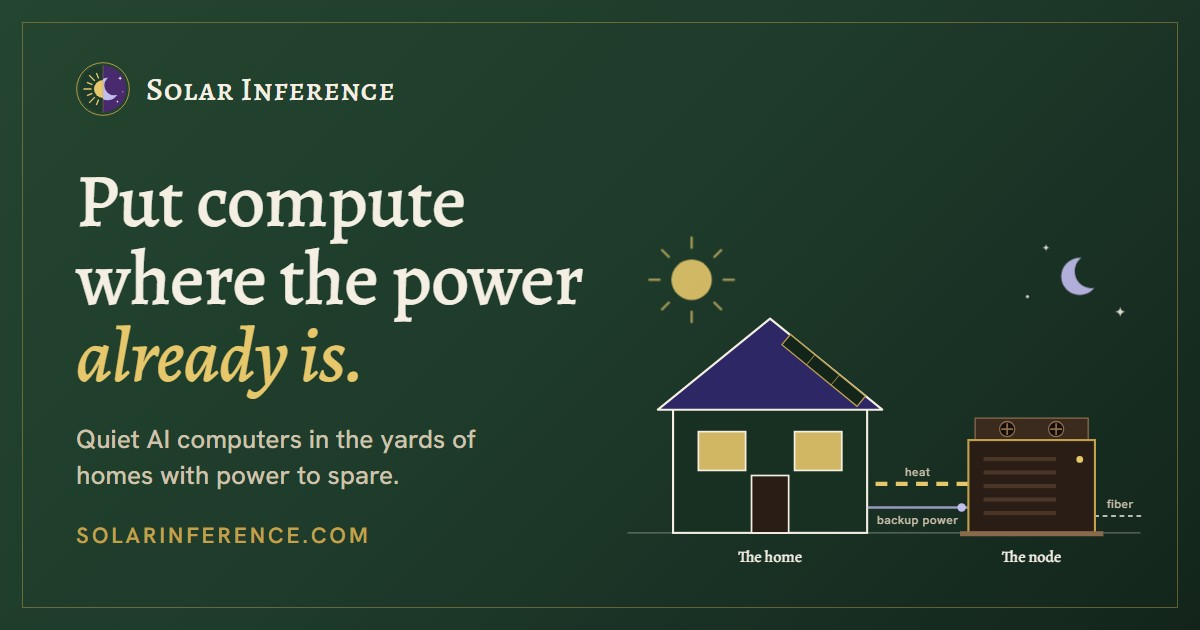
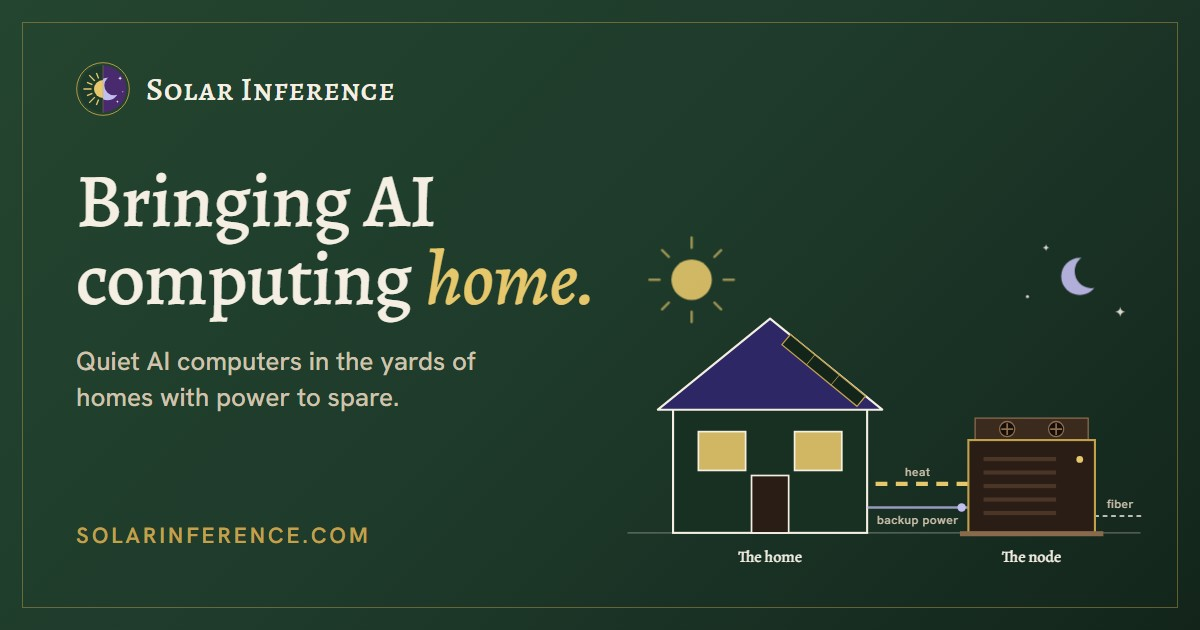
Rewrite the page copy in Alton's voice; new headline "Bringing AI computing home"

Changed region(s): [[0.0617, 0.5127, 0.4008, 0.7841], [0.0617, 0.2714, 0.4933, 0.5127]]

diff --git a/index.html b/index.html
@@ -15,7 +15,7 @@
 <meta property="og:image:type" content="image/jpeg">
 <meta property="og:image:width" content="1200">
 <meta property="og:image:height" content="630">
-<meta property="og:image:alt" content="Solar Inference: Put compute where the power already is. A house with solar panels and a computing node in its yard, linked by heat and backup power.">
+<meta property="og:image:alt" content="Solar Inference: Bringing AI computing home. A house with solar panels and a computing node in its yard, linked by heat and backup power.">
 <meta name="twitter:card" content="summary_large_image">
 <style>:root{padding-top:env(safe-area-inset-top,0px);padding-bottom:env(safe-area-inset-bottom,0px)}body{margin:0}img{max-width:100%}[hidden]{display:none!important}</style>
 <title>Solar Inference · Compute at Home</title>
@@ -273,13 +273,13 @@ a{color:inherit}
   <div class="wrap">
     <div>
       <p class="eyebrow">Solar Inference · Compute at home</p>
-      <h1 id="hero-title">Put compute where the power <em>already is.</em></h1>
-      <p class="lead">We place quiet, datacenter-class AI computers in the yards of homes with power to spare. The home gets a fixed monthly fee, heat in winter and backup power in an outage. We handle the rest.</p>
+      <h1 id="hero-title">Bringing AI computing <em>home.</em></h1>
+      <p class="lead">We put quiet, datacenter-class AI computers in the back yards of homes that have electrical capacity to spare, and the home gets a fixed monthly fee, heat in the winter and backup power when the grid goes down (we take care of everything else).</p>
       <div class="ctas">
         <a class="btn btn-gold" href="#how">See how it works</a>
         <a class="btn btn-line" href="#host">Host a node</a>
       </div>
-      <p class="note">A concept in development in New Jersey. Figures are estimates, not promises.</p>
+      <p class="note">This is a concept we are still developing in New Jersey, and the figures on this page are our best estimates.</p>
     </div>
     <svg class="scene" viewBox="0 0 640 440" role="img" aria-label="A house with solar panels and, beside it in the yard, a compact computing enclosure. Heat flows from the enclosure into the house, backup power runs along a second line, and a fiber line leaves to the street.">
       <g opacity=".9">
@@ -329,8 +329,8 @@ a{color:inherit}
   <div class="wrap">
     <div class="sec-head">
       <p class="eyebrow">Why now</p>
-      <h2 class="h2" id="why-title">AI is running short of power, not chips.</h2>
-      <p class="lede">Datacenters wait years for a grid connection. Homes already have service they rarely use in full.</p>
+      <h2 class="h2" id="why-title">The short answer is electricity.</h2>
+      <p class="lede">Chips are hard enough to come by, but the real wait is for power, since a new datacenter can spend years in line for a grid connection while the average American home uses well under half of the electrical service it already has.</p>
     </div>
     <div class="figs">
       <div class="fig"><b>Sold out</b><p>Amazon says AWS computing capacity is largely sold out through 2027, and a good part of 2028.</p><p class="src">Reuters, October 2026</p></div>
@@ -345,9 +345,9 @@ a{color:inherit}
   <div class="wrap product">
     <div class="copy">
       <p class="eyebrow">The node</p>
-      <h2 class="h2" id="how-title">A quiet box in the yard.</h2>
-      <p class="lede">One datacenter-class server in a sealed, cooled enclosure about the size of an air-conditioning unit. We own it, install it, insure it and run it remotely. AI teams rent its computing by the hour.</p>
-      <p class="lede">It sits behind its own meter and its own internet line, and never touches the home’s network.</p>
+      <h2 class="h2" id="how-title">About the size of an air conditioner (and a lot more interesting).</h2>
+      <p class="lede">Each node is a single datacenter-class server (eight NVIDIA B300 GPUs) sealed inside a cooled enclosure that sits in the yard much the way an AC condenser does. We own it, install it, insure it and run it remotely, and AI teams rent its computing by the hour through online marketplaces.</p>
+      <p class="lede">It has its own meter and its own fiber line, so it never touches the home’s network or the household’s electric bill.</p>
     </div>
     <div class="plate" role="group" aria-labelledby="plate-title">
       <div class="plate-head"><span class="wm" id="plate-title">Solar Inference home node</span><span>Design targets</span></div>
@@ -362,7 +362,7 @@ a{color:inherit}
         <dt>Size</dt><dd>About an air-conditioning condenser</dd>
         <dt>Operation</dt><dd>Remote monitoring, pricing and power control, 24/7</dd>
       </dl>
-      <p class="plate-note">Targets for the first enclosure, not a finished product.</p>
+      <p class="plate-note">These are design targets for the first enclosure, which we are still building.</p>
     </div>
   </div>
 </section>
@@ -371,29 +371,29 @@ a{color:inherit}
   <div class="wrap">
     <div class="sec-head">
       <p class="eyebrow">What the home gets</p>
-      <h2 class="h2" id="home-title">A small utility in the back yard.</h2>
-      <p class="lede">The node earns its keep for the house as well as for us.</p>
+      <h2 class="h2" id="home-title">It starts to feel like a mini utility.</h2>
+      <p class="lede">We wanted the node to earn its keep for the house as well as for us, and between the monthly fee, the heat and the battery, the home ends up with a great deal more than a box in the yard.</p>
     </div>
     <div class="util">
       <article>
         <svg viewBox="0 0 32 32" fill="none" stroke="currentColor" stroke-width="1.8" aria-hidden="true"><rect x="4" y="7" width="24" height="20"/><path d="M4 13h24M10 4v6M22 4v6"/><path d="M11 19h4M11 23h8"/></svg>
         <h3>A fixed fee, all year</h3>
-        <p>Paid every month for the space, whether or not the computer is busy.</p>
+        <p>We pay the same fee every month for the use of the space, whether the computer is busy or sitting idle (the rental risk is ours to carry).</p>
       </article>
       <article>
         <svg viewBox="0 0 32 32" fill="none" stroke="currentColor" stroke-width="1.8" aria-hidden="true"><path d="M9 27c-3-4 3-7 0-11s3-7 0-11M16 27c-3-4 3-7 0-11s3-7 0-11M23 27c-3-4 3-7 0-11s3-7 0-11"/></svg>
         <h3>Warmth in winter</h3>
-        <p>About 15 kW of heat around the clock. Piped into the house, it can carry much of the winter heating.</p>
+        <p>The node gives off up to 15 kW of heat around the clock, roughly what a small furnace puts out, and piped into the house it can carry much of the winter heating.</p>
       </article>
       <article>
         <svg viewBox="0 0 32 32" fill="none" stroke="currentColor" stroke-width="1.8" aria-hidden="true"><rect x="4" y="9" width="22" height="14"/><path d="M26 13h2v6h-2"/><path d="M16 11l-4 6h5l-3 5"/></svg>
         <h3>Power when the grid is down</h3>
-        <p>A battery in the enclosure backs up the house. In an outage the computer steps aside and the house gets the power.</p>
+        <p>A battery bank in the enclosure backs up the house, and when the grid goes down the computer shuts itself off first so that the house gets the power.</p>
       </article>
       <article>
         <svg viewBox="0 0 32 32" fill="none" stroke="currentColor" stroke-width="1.8" aria-hidden="true"><circle cx="16" cy="13" r="5"/><path d="M16 3v3M16 20v3M6 13h3M23 13h3M9 6l2 2M21 18l2 2M9 20l2-2M21 8l2-2"/><path d="M5 29l4-5h14l4 5z"/></svg>
-        <h3>A partner for the panels</h3>
-        <p>Runs on the home’s solar when the sun is up, and may qualify for clean-energy incentives a household can’t claim alone.</p>
+        <h3>A good partner for solar</h3>
+        <p>For homes with solar, the node runs on the panels while the sun is up, and it may qualify for clean-energy incentives that a household can’t claim on its own.</p>
       </article>
     </div>
   </div>
@@ -403,17 +403,17 @@ a{color:inherit}
   <div class="wrap">
     <div class="sec-head">
       <p class="eyebrow">How it pays</p>
-      <h2 class="h2" id="money-title">How the money flows.</h2>
+      <h2 class="h2" id="money-title">Following the money.</h2>
     </div>
     <div class="chain">
       <div><h3>Renters</h3><p>AI teams rent GPU time by the hour, online.</p></div>
       <div><h3>Marketplaces</h3><p>Match renters to machines and keep a share of each hour.</p></div>
-      <div class="us"><h3>Solar Inference</h3><p>Owns and runs the node. Pays for hardware, power, internet, insurance and upkeep.</p></div>
+      <div class="us"><h3>Solar Inference</h3><p>Owns and runs the node, and pays for the hardware, power, internet, insurance and upkeep.</p></div>
       <div><h3>The host home</h3><p>A fixed monthly fee, winter heat and backup power.</p></div>
     </div>
     <div class="principles">
-      <div><h3>The host’s fee is fixed.</h3><p>It doesn’t rise or fall with rentals. The market risk stays with us, not with the home.</p></div>
-      <div><h3>One large node per site.</h3><p>Every site carries fixed costs: its internet line, insurance, installation and visits. A datacenter-class node earns enough to carry them. A small one doesn’t.</p></div>
+      <div><h3>The host’s fee never moves.</h3><p>It doesn’t rise or fall with rentals, and that is deliberate. GPU rental prices can swing, and we think that risk is ours to carry, since the family only agreed to host a box in the yard.</p></div>
+      <div><h3>One large node per site.</h3><p>Every site comes with fixed costs (its own internet line, insurance, installation and a few visits a year), and the truth is that only a datacenter-class node earns enough to carry them, which is why we don’t put small machines in people’s yards.</p></div>
     </div>
   </div>
 </section>
@@ -422,7 +422,7 @@ a{color:inherit}
   <div class="wrap">
     <div class="sec-head">
       <p class="eyebrow">Hosting a node</p>
-      <h2 class="h2" id="host-title">What a host home needs, and what we handle.</h2>
+      <h2 class="h2" id="host-title">Hosting asks very little of the home.</h2>
     </div>
     <div class="host">
       <div class="home">
@@ -431,7 +431,7 @@ a{color:inherit}
           <li>A standard 200 A service that the node shares through smart power throttling</li>
           <li>A level spot in the yard, back from the property line</li>
           <li>Fiber internet available at the street</li>
-          <li>An owner, not a renter</li>
+          <li>An owner who can sign a multi-year agreement</li>
           <li>A yes from the home’s insurer, with our paperwork</li>
         </ul>
       </div>
@@ -454,8 +454,8 @@ a{color:inherit}
     <div>
       <div class="sec-head">
         <p class="eyebrow">Permission</p>
-        <h2 class="h2" id="towns-title">Town by town, with the utility.</h2>
-        <p class="lede">Most town codes never imagined a computer in the back yard. We take that on ourselves, one town at a time.</p>
+        <h2 class="h2" id="towns-title">We work it out town by town.</h2>
+        <p class="lede">Most town codes were written long before anyone imagined a computer in the back yard, so we take on the zoning question ourselves, one town at a time, much the way the early solar companies did.</p>
       </div>
       <ol class="steps">
         <li><h3>Read the code</h3><p>Home-business rules, accessory equipment, and any data-center definition or ban.</p></li>
@@ -470,10 +470,10 @@ a{color:inherit}
     </div>
     <aside class="utility" aria-labelledby="util-title">
       <h3 id="util-title">Working with the utility</h3>
-      <p>A node is a big, steady load the utility can see and control.</p>
+      <p>A node is a large, steady load that the utility can see and control, and we would much rather plan each one with the utility than surprise them.</p>
       <dl>
         <div><dt>Service</dt><dd>Smart throttling fits the node within the home’s existing service, and we check room on the street’s transformer.</dd></div>
-        <div><dt>Metering</dt><dd>Its own meter, so its power is on our account, not the household’s.</dd></div>
+        <div><dt>Metering</dt><dd>Its own meter, so the power it uses is billed to us and never to the household.</dd></div>
         <div><dt>Peak hours</dt><dd>The node turns down when the grid is strained, and the battery can help carry the house.</dd></div>
         <div><dt>Planning</dt><dd>We tell the utility where nodes go, so neighborhoods are ready before they arrive.</dd></div>
       </dl>
@@ -485,13 +485,13 @@ a{color:inherit}
   <div class="wrap">
     <div class="sec-head">
       <p class="eyebrow">The field</p>
-      <h2 class="h2" id="field-title">Others are building this too.</h2>
-      <p class="lede">Big players are betting that homes have power to spare.</p>
+      <h2 class="h2" id="field-title">Some very large companies see the same opportunity.</h2>
+      <p class="lede">Without a doubt, the idea is in the air, and some of the companies betting that homes have power to spare are a great deal bigger than we are.</p>
     </div>
     <div class="others">
       <article><h3>Span, with Nvidia and PulteGroup</h3><p class="where">California</p><p>Liquid-cooled compute nodes about the size of an air-conditioning unit, outside new homes. Prototypes running since May 2026.</p></article>
       <article><h3>Heata</h3><p class="where">United Kingdom</p><p>Servers on home hot-water tanks. The computing heats the water, so the household gets free hot water. About 100 homes so far.</p></article>
-      <article class="us"><h3>Solar Inference</h3><p class="where">New Jersey</p><p>Already renting datacenter-grade GPUs online from a home server room. Next: one large node, then host homes in existing neighborhoods.</p></article>
+      <article class="us"><h3>Solar Inference</h3><p class="where">New Jersey</p><p>We already rent datacenter-grade GPUs online from a home server room, and the next steps are one large node of our own and then host homes in existing neighborhoods.</p></article>
     </div>
   </div>
 </section>
@@ -500,19 +500,19 @@ a{color:inherit}
   <div class="wrap">
     <div class="sec-head">
       <p class="eyebrow">Where we are</p>
-      <h2 class="h2" id="now-title">We already do this, at a smaller size.</h2>
+      <h2 class="h2" id="now-title">We’ve been doing a smaller version of this for a while now.</h2>
     </div>
     <div class="now">
       <div>
-        <h3 class="sub">What we’ve built</h3>
+        <h3 class="sub">So far</h3>
         <div class="built">
-          <div><b>Machines renting online</b><p>GPU servers in a home server room, rented by AI teams most of the time since summer 2026.</p></div>
-          <div><b>Software that runs without anyone at the keyboard</b><p>Our own monitoring, pricing and power control, around the clock.</p></div>
-          <div><b>Lessons from home</b><p>What power, heat and noise teach you at home scale, before you build anything bigger.</p></div>
+          <div><b>Machines renting online</b><p>GPU servers in a home server room, rented out to AI teams most of the time since the summer of 2026.</p></div>
+          <div><b>Software that runs itself</b><p>We wrote our own monitoring, pricing and power control, and it runs around the clock without anyone at the keyboard.</p></div>
+          <div><b>Lessons from home</b><p>Power, heat and noise all behave differently in a house than in a datacenter, and we would rather learn those lessons at home scale before building anything bigger.</p></div>
         </div>
       </div>
       <div>
-        <h3 class="sub">What happens next</h3>
+        <h3 class="sub">Next</h3>
         <ol class="timeline">
           <li><div><b>The first node</b><span>Built and run on our own site, to prove the template.</span></div></li>
           <li><div><b>The enclosure</b><span>Cooling, sound treatment, battery and heat recovery in one box.</span></div></li>
@@ -529,21 +529,21 @@ a{color:inherit}
   <div class="wrap">
     <div class="sec-head">
       <p class="eyebrow">Questions</p>
-      <h2 class="h2" id="faq-title">What a homeowner asks first.</h2>
+      <h2 class="h2" id="faq-title">Fair questions from a homeowner.</h2>
     </div>
     <div class="faq">
       <div>
-        <details><summary>Will the neighbors hear it?</summary><p>It’s designed to stay under New Jersey’s night limit at the property line, 50 decibels, about the sound of a quiet office.</p></details>
-        <details><summary>What if the power goes out?</summary><p>The battery backs up the house. The computer shuts itself down first, so the house gets the power.</p></details>
-        <details><summary>Is it safe?</summary><p>Listed equipment on its own circuits, watched around the clock for heat and smoke, with remote shutoff. We insure it, and our liability policy covers the home.</p></details>
-        <details><summary>Can it see our network?</summary><p>No. It has its own fiber line and never joins the home network. We never look at what customers run on it.</p></details>
+        <details><summary>Will the neighbors hear it?</summary><p>We are designing it to stay under New Jersey’s nighttime limit at the property line (50 decibels, which is about the sound of a quiet office), and noise is the single biggest driver of the enclosure design.</p></details>
+        <details><summary>What if the power goes out?</summary><p>The battery backs up the house, and the computer shuts itself down first so that everything in the battery goes to the house.</p></details>
+        <details><summary>Is it safe?</summary><p>It is listed equipment on its own circuits, watched around the clock for heat and smoke and able to be shut off remotely, and we insure it, with a liability policy that covers the home.</p></details>
+        <details><summary>Can it see our network?</summary><p>No. It has its own fiber line and never joins the home network, and we never look at what our customers run on it.</p></details>
       </div>
       <div>
-        <details><summary>Do we need a bigger electrical service?</summary><p>Usually not. Smart power throttling watches the home’s total draw and turns the node down first, so the house always gets what it needs and the service stays within its rating. The battery covers short peaks.</p></details>
-        <details><summary>Does it raise our electric bill?</summary><p>No. The node’s power is on its own meter or included in our fee, never on the household’s bill.</p></details>
-        <details><summary>Do we have to do anything?</summary><p>No. We monitor and repair it remotely, with a few scheduled visits a year. You only keep the circuit on and let us in on notice.</p></details>
+        <details><summary>Do we need a bigger electrical service?</summary><p>Usually not. Smart power throttling watches the home’s total draw and turns the node down first, so the house always gets what it needs and the service stays within its rating (the battery covers short peaks).</p></details>
+        <details><summary>Does it raise our electric bill?</summary><p>No. The node’s power is either on its own meter or included in our fee, and it never shows up on the household’s bill.</p></details>
+        <details><summary>Do we have to do anything?</summary><p>Not really. We monitor and repair it remotely with a few scheduled visits a year, and all we ask is that you keep the circuit on and let us in when we give notice.</p></details>
         <details><summary>What if we sell the house?</summary><p>The agreement ends, and we remove the box within days.</p></details>
-        <details><summary>Is our town allowed?</summary><p>That’s the first thing we check. If your town’s code is silent, we ask for a ruling. If it has banned data centers, we won’t place a node there.</p></details>
+        <details><summary>Is our town allowed?</summary><p>That is the first thing we check. If your town’s code is silent we ask for a ruling, and if your town has banned data centers we simply won’t place a node there.</p></details>
       </div>
     </div>
   </div>
@@ -552,8 +552,8 @@ a{color:inherit}
 <section class="close" aria-labelledby="close-title">
   <div class="wrap">
     <span class="orn" aria-hidden="true"></span>
-    <h2 id="close-title">Put compute where the power already is.</h2>
-    <p>Interested in hosting a node, or in bringing this to your town? We’d like to hear from you.</p>
+    <h2 id="close-title">We would love to hear from you.</h2>
+    <p>More than anything, we hope that ordinary homes get to share in the AI buildout, so whether you are thinking about hosting a node or bringing this to your town, please write to us.</p>
     <div class="contact" id="contact">
       <code id="contact-email">admin@solarinference.com</code>
       <button type="button" id="copy-email">Copy address</button>
@@ -568,7 +568,7 @@ a{color:inherit}
     <div>
       <a class="brand wm" href="#top"><svg aria-hidden="true"><use href="#si-emblem"/></svg>Solar Inference</a>
       <p style="margin-top:14px">Solar Inference LLC · New Jersey</p>
-      <p>A concept in development. Figures are estimates, not promises. Nothing here is an offer of any investment or tax advice.</p>
+      <p>This is a concept in development, and the figures here are estimates. Nothing on this page is an offer to invest, and none of it is tax advice.</p>
       <p>© 2026 Solar Inference LLC</p>
     </div>
     <div class="srcs">

diff --git a/og-card.html b/og-card.html
@@ -41,7 +41,7 @@ h1 em{font-style:italic;color:#E6C76B}
     </svg>
     Solar Inference
   </div>
-  <h1>Put compute where the power <em>already is.</em></h1>
+  <h1>Bringing AI computing <em>home.</em></h1>
   <p class="lead">Quiet AI computers in the yards of homes with power to spare.</p>
   <p class="url">solarinference.com</p>
 </div>
